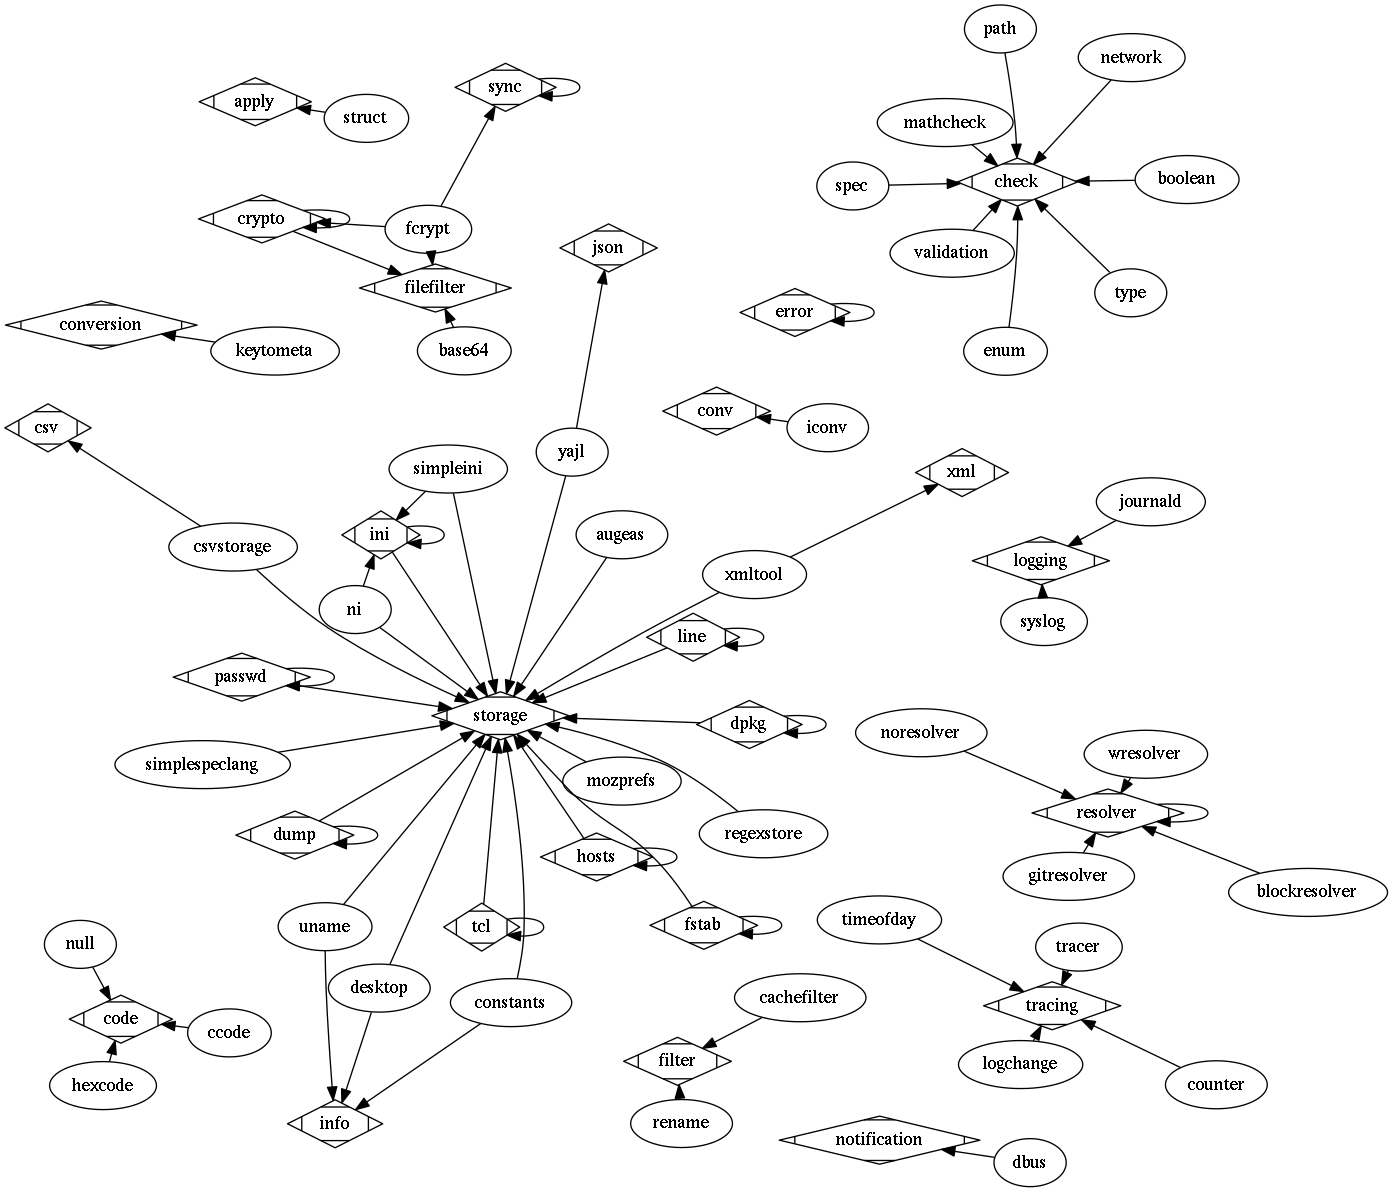
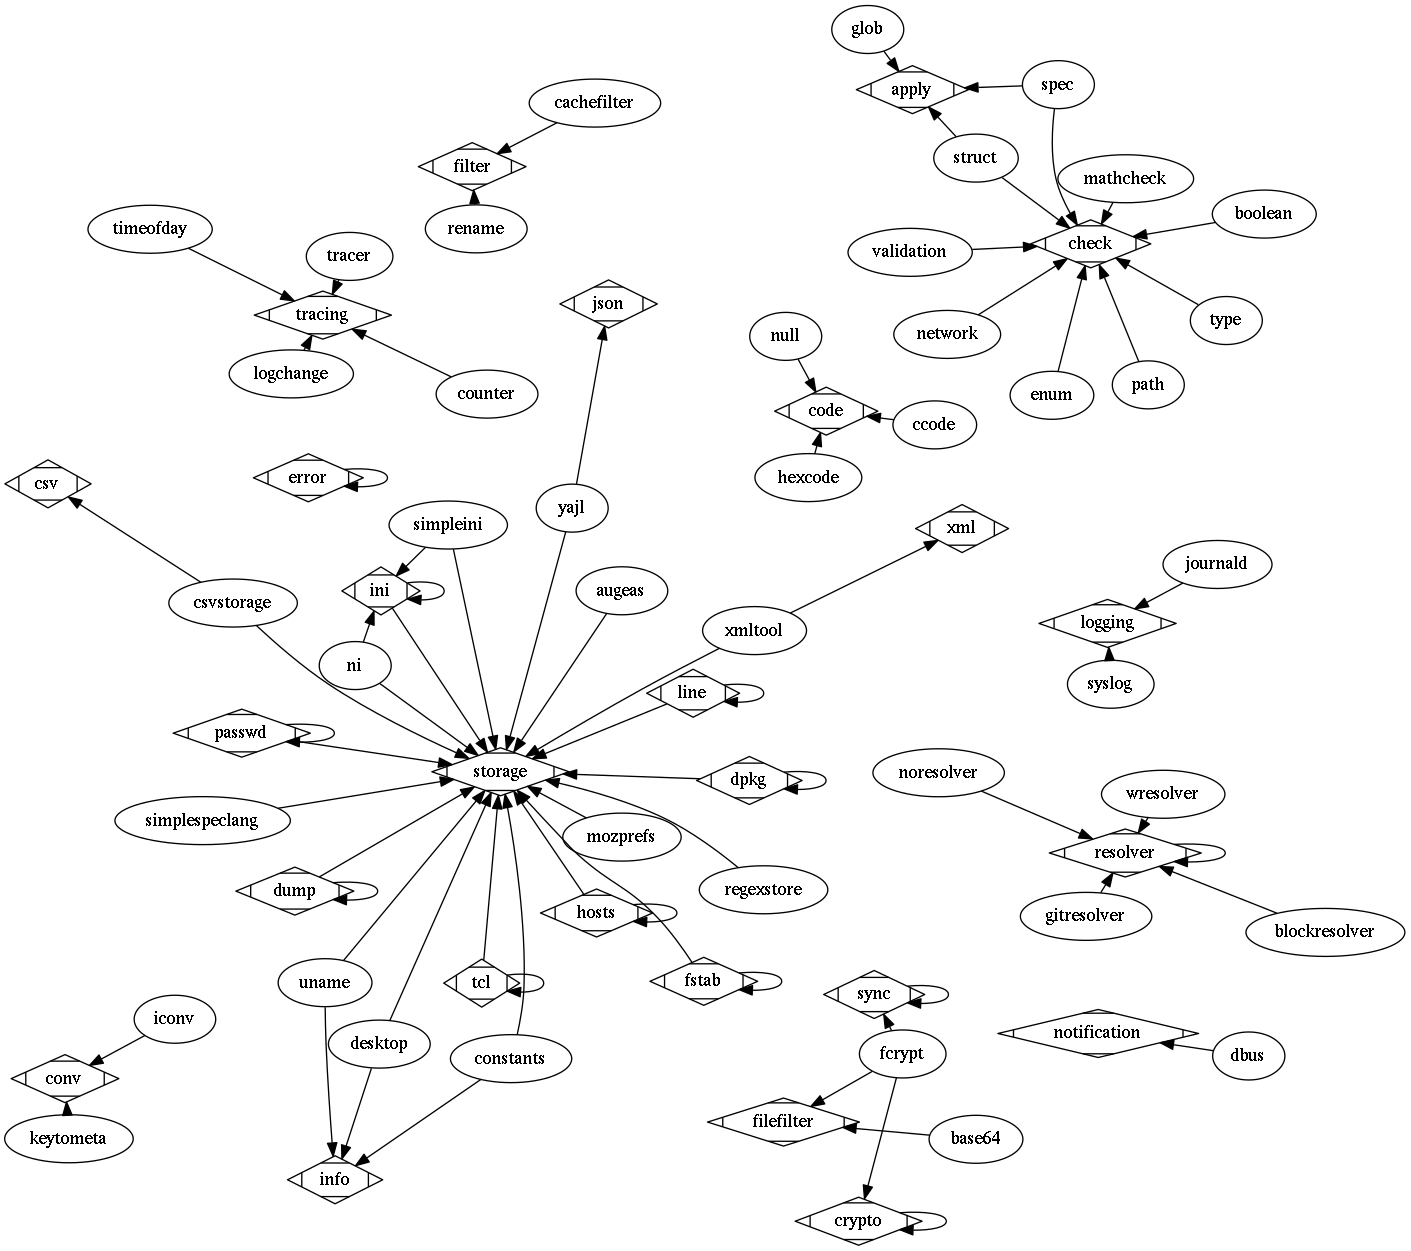
plugins: fix deps+regenerate image

diff --git a/src/plugins/spec/README.md b/src/plugins/spec/README.md
@@ -2,7 +2,7 @@
 - infos/author = Thomas Waser <thomas.waser@libelektra.org>
 - infos/licence = BSD
 - infos/needs =
-- infos/provides = check
+- infos/provides = check apply
 - infos/placements = postgetstorage presetstorage
 - infos/status = maintained unittest nodep configurable global preview
 - infos/description = copies meta data from spec namespace to other namespaces

diff --git a/src/plugins/keytometa/README.md b/src/plugins/keytometa/README.md
@@ -1,7 +1,7 @@
 - infos = Information about keytometa plugin is in keys below
 - infos/author = Felix Berlakovich <elektra@berlakovich.net>
 - infos/licence = BSD
-- infos/provides = conversion
+- infos/provides = conv
 - infos/needs =
 - infos/placements = presetstorage postgetstorage
 - infos/status = maintained unittest tested nodep libc configurable

diff --git a/src/plugins/crypto/README.md b/src/plugins/crypto/README.md
@@ -1,7 +1,7 @@
 - infos = Information about crypto plugin is in keys below
 - infos/author = Peter Nirschl <peter.nirschl@gmail.com>
 - infos/licence = BSD
-- infos/provides = filefilter crypto
+- infos/provides = crypto
 - infos/needs =
 - infos/recommends =
 - infos/placements = postgetstorage presetstorage

diff --git a/src/plugins/struct/README.md b/src/plugins/struct/README.md
@@ -1,7 +1,7 @@
 - infos = Information about struct plugin is in keys below
 - infos/author = Markus Raab <elektra@libelektra.org>
 - infos/licence = BSD
-- infos/provides = apply
+- infos/provides = apply check
 - infos/needs =
 - infos/ordering = check
 - infos/placements = presetstorage

diff --git a/src/plugins/glob/README.md b/src/plugins/glob/README.md
@@ -1,7 +1,7 @@
 - infos = Information about glob plugin is in keys below
 - infos/author = Felix Berlakovich <elektra@berlakovich.net>
 - infos/licence = BSD
-- infos/provides =
+- infos/provides = apply
 - infos/needs =
 - infos/recommends =
 - infos/ordering = check keytometa
